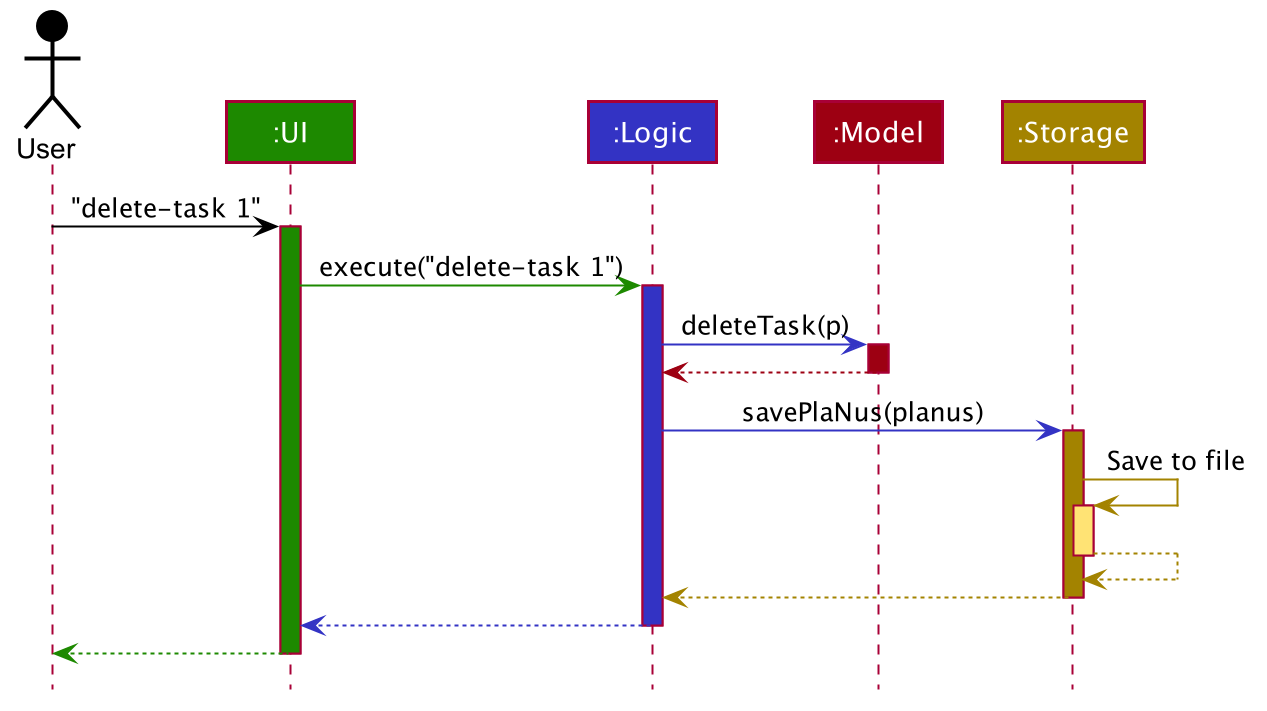
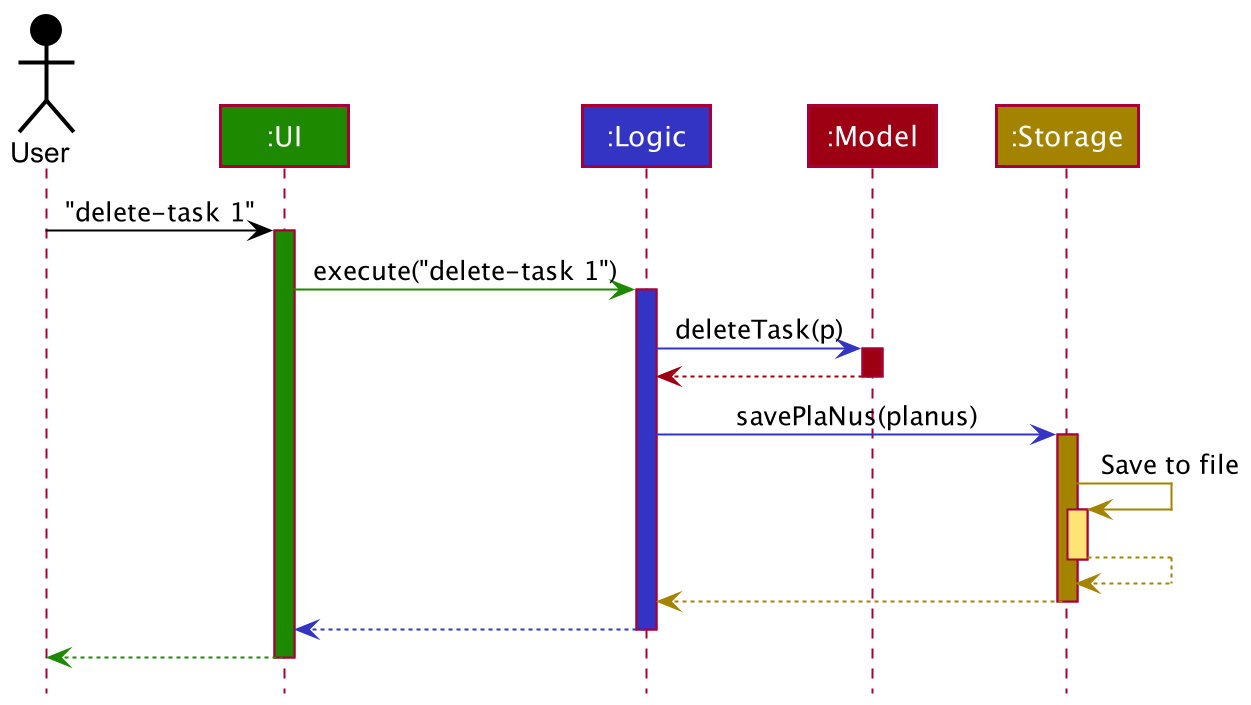
fix bugs

diff --git a/docs/DeveloperGuide.md b/docs/DeveloperGuide.md
@@ -58,7 +58,7 @@ For example, the `Logic` component (see the class diagram given below) defines i
 
 **How the architecture components interact with each other**
 
-The *Sequence Diagram* below shows how the components interact with each other for the scenario where the user issues the command `delete 1`.
+The *Sequence Diagram* below shows how the components interact with each other for the scenario where the user issues the command `delete-task 1`.
 
 <img src="images/ArchitectureSequenceDiagram.png" width="574" />
 
